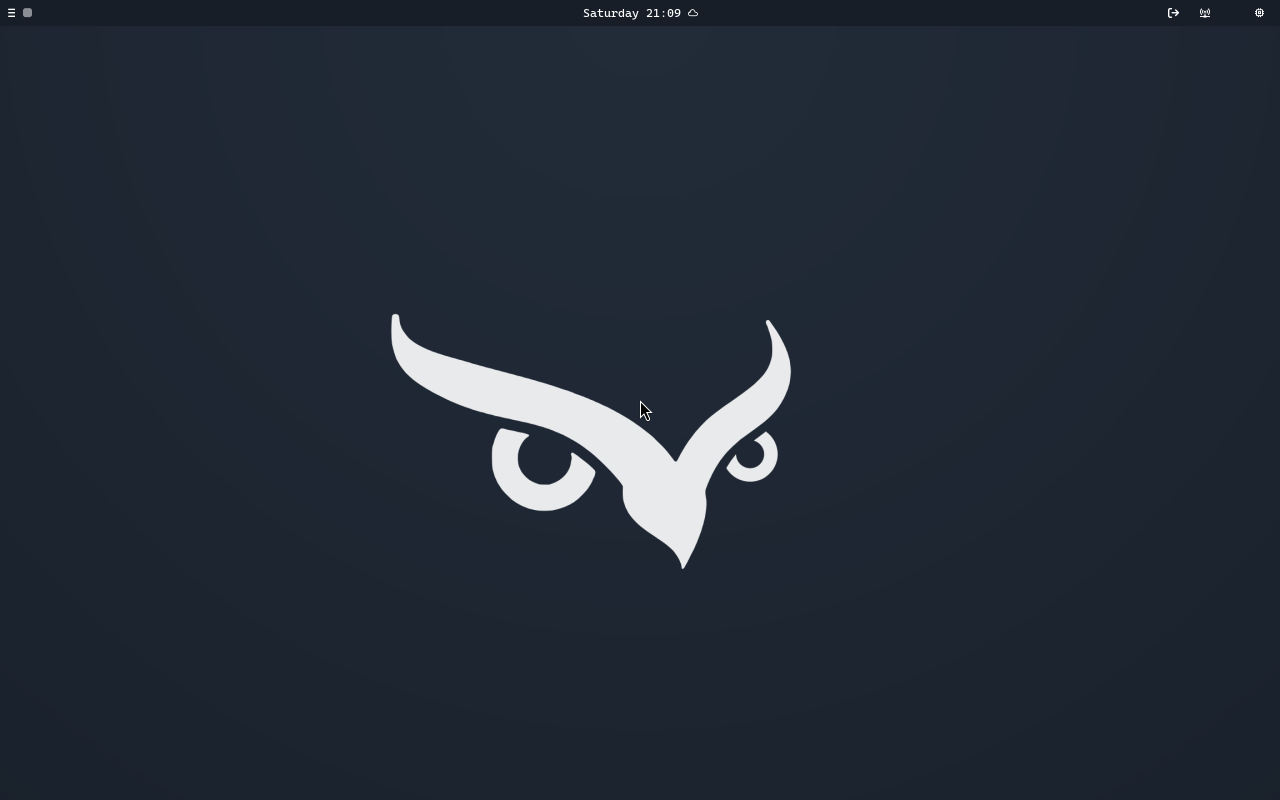
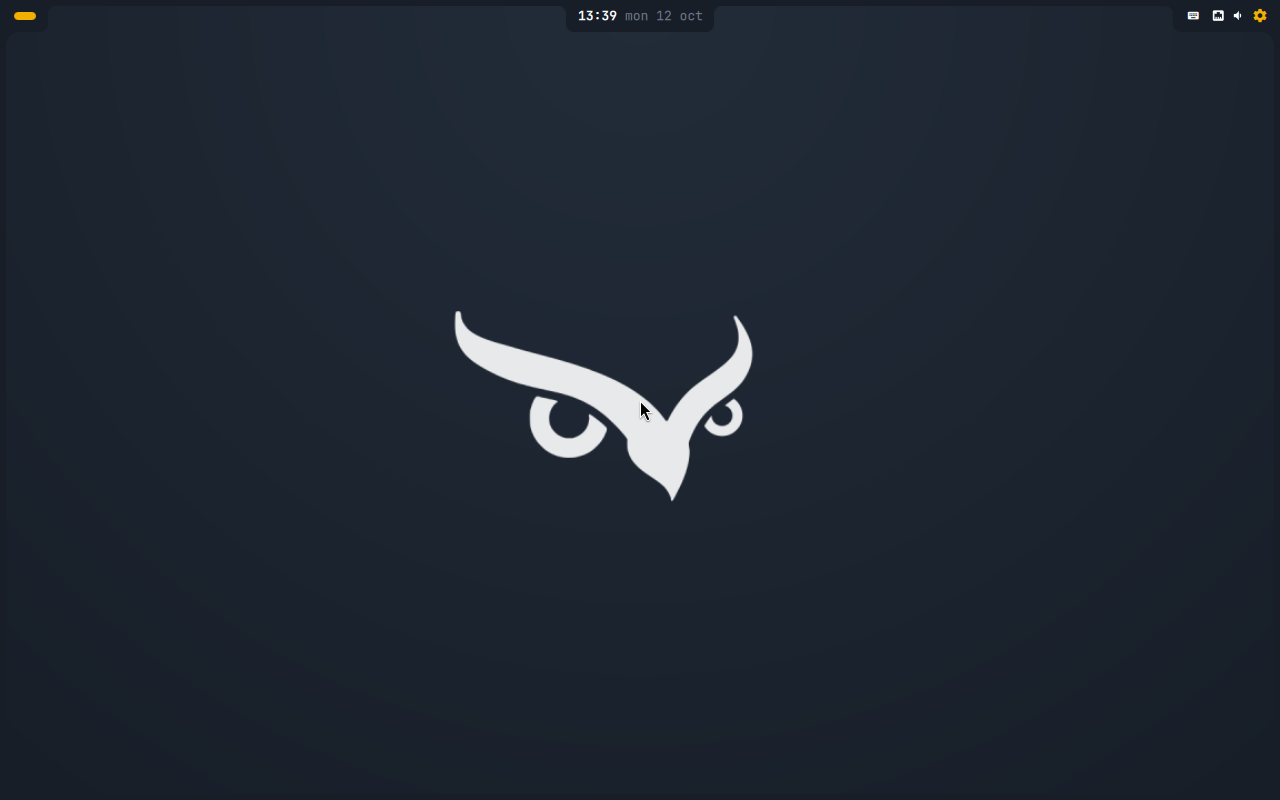
test: verify-shell.sh end-to-end checks; docs: README screenshots and layout, AGENTS roadmap, spec status for the mbm shell

diff --git a/AGENTS.md b/AGENTS.md
@@ -45,7 +45,7 @@ each with its own spec, plan and branch, and the desktop works after each one:
 
 | # | Project | Status |
 |---|---|---|
-| A | **mbm shell**: Quickshell bar, launcher, notifications, OSD, lock, wallpaper, quick settings, settings window; settings JSON → generated Hyprland config | spec: `docs/superpowers/specs/2026-10-10-mbm-shell-design.md` |
+| A | **mbm shell**: Quickshell bar, launcher, notifications, OSD, lock, wallpaper, quick settings, settings window; settings JSON → generated Hyprland config | implemented on branch `mbm-shell` (not merged yet): spec + plan in `docs/superpowers/` |
 | B | **`mbm` CLI**: replace the vendored `slievr-*` scripts (`dot-local/share/slievr-cachy/bin/`) | not started |
 | C | **mbm theme**: palette in mbm settings, our own app-theme renderer, retire `dot-config/omarchy/` | not started |
 | D | **Graphical installer**: Quickshell installer on the ISO, reusing A + C | not started |
@@ -60,10 +60,14 @@ them if needed, don't extend them.
   (`dot-config` → `~/.config`). `bootstrap.sh` stows the whole repo into `~`.
 - `cachyos/install/`: installer (bash). `cachyos/iso/`: ISO build/test.
   `cachyos/bootstrap.sh`: the desktop layer, run on first boot.
-- Settings (once project A lands): defaults in `dot-local/share/mbm/defaults/settings.json`,
+- Settings: defaults in `dot-local/share/mbm/defaults/settings.json`,
   user overrides in `~/.config/mbm/settings.json`, Hyprland fragments
   **generated** into `~/.local/state/mbm/hypr/` by `mbm settings apply`. Don't hand-edit generated files;
   change the defaults or the generator.
+- The shell runs as `mbm-shell.service`; IPC: `qs -c mbm ipc call <target> <fn>`
+  (targets in `dot-config/quickshell/mbm/ipc/Ipc.qml`). Dev loop:
+  `cachyos/vm/vm.sh restow && cachyos/vm/vm.sh shell`. End-to-end check:
+  `cachyos/vm/vm.sh run 'bash ~/proj/slievr-cachy/cachyos/iso/test/verify-shell.sh'`.
 - Shell scripts: bash, `set -euo pipefail`, shellcheck-clean (CI runs it).
   Comments explain *why*. Match the density of the surrounding code.
 - Tests: `test-*.sh` scripts using `cachyos/install/test/lib.sh`

diff --git a/README.md b/README.md
@@ -4,6 +4,12 @@ A CachyOS + Hyprland desktop and the installer ISO that puts it on a machine:
 boot the ISO, answer a few questions, and it installs unattended onto an
 encrypted btrfs disk, then sets up the desktop on first boot.
 
+The desktop is its own Quickshell shell (`mbm`): an attached bar with three
+hanging tabs inside a rounded screen frame, a launcher (apps, clipboard,
+emoji, system), notifications, OSD, lock screen, quick settings and a
+settings window. Settings are one JSON file that generates the Hyprland
+config.
+
 ![Desktop with btop and a terminal](docs/screenshots/06-desktop-apps.png)
 
 ## Install
@@ -27,9 +33,11 @@ installer can join Wi-Fi, and the network carries over to the installed system.
 | ![Disk unlock](docs/screenshots/03-unlock.png) | ![Login](docs/screenshots/04-login.png) |
 | Disk unlock (Plymouth) | Login (SDDM) |
 | ![Desktop](docs/screenshots/05-desktop.png) | ![Launcher](docs/screenshots/07-launcher.png) |
-| Desktop | Launcher (Walker) |
-| ![Lock screen](docs/screenshots/08-lock.png) | |
-| Lock screen (hyprlock) | |
+| Desktop: bar tabs and screen frame | Launcher (apps, clipboard, emoji, system) |
+| ![Lock screen](docs/screenshots/08-lock.png) | ![Quick settings](docs/screenshots/09-quick-settings.png) |
+| Lock screen | Quick settings |
+| ![Settings](docs/screenshots/10-settings.png) | |
+| Settings (keybinds, displays, bar, idle, input) | |
 
 ## Repo layout
 
@@ -37,6 +45,8 @@ installer can join Wi-Fi, and the network carries over to the installed system.
 - `cachyos/install/` — the installer itself and first-boot setup
 - `cachyos/bootstrap.sh` — the desktop layer, run on first boot
 - `cachyos/branding/` — owl, palette and theme assets
+- `dot-config/quickshell/mbm/` — the desktop shell (bar, launcher, notifications, lock, settings)
+- `dot-local/share/mbm/` — the `mbm` CLI: settings (defaults + overrides → generated Hyprland config), dmenu
 - `dot-config/`, `dot-local/` — dotfiles, stowed into `~`
 
 Releases are built by GitHub Actions when a `v*` tag is pushed on `main`

diff --git a/docs/superpowers/specs/2026-10-10-mbm-shell-design.md b/docs/superpowers/specs/2026-10-10-mbm-shell-design.md
@@ -1,7 +1,16 @@
 # mbm shell v1 — design
 
 **Date:** 2026-10-10
-**Status:** approved design, amended during planning (2026-10-11)
+**Status:** implemented on branch `mbm-shell`, not merged (plan: `docs/superpowers/plans/2026-10-11-mbm-shell.md`; end-to-end check: `cachyos/iso/test/verify-shell.sh`). Design amended during planning (2026-10-11).
+
+**Known limitations:**
+- Bluetooth devices that need a PIN or passkey must be paired with `bluetoothctl`: there is no pairing agent.
+- Idle timeouts honour only Wayland idle inhibitors.
+- The Wi-Fi and Bluetooth connect flows were verified only against the API; check them on real hardware.
+- Lock-before-sleep and suspend could not be tested in the VM.
+- Faillock locks the account for 10 minutes after 3 failures, and a polkit Cancel counts as a failure (inherent to polkit).
+- The theme and background pickers are unavailable until project C.
+- Some legacy `slievr-*` scripts still assume walker or swaybg; they are left for project B.
 **Branch:** `mbm-shell` (off `main` @ 4abc949)
 **Mockups:** visual-companion screens in `.superpowers/brainstorm/` (gitignored):
 `bar-style-v2.html`, `launcher-style.html`, `quick-settings.html`, `settings-window.html`
